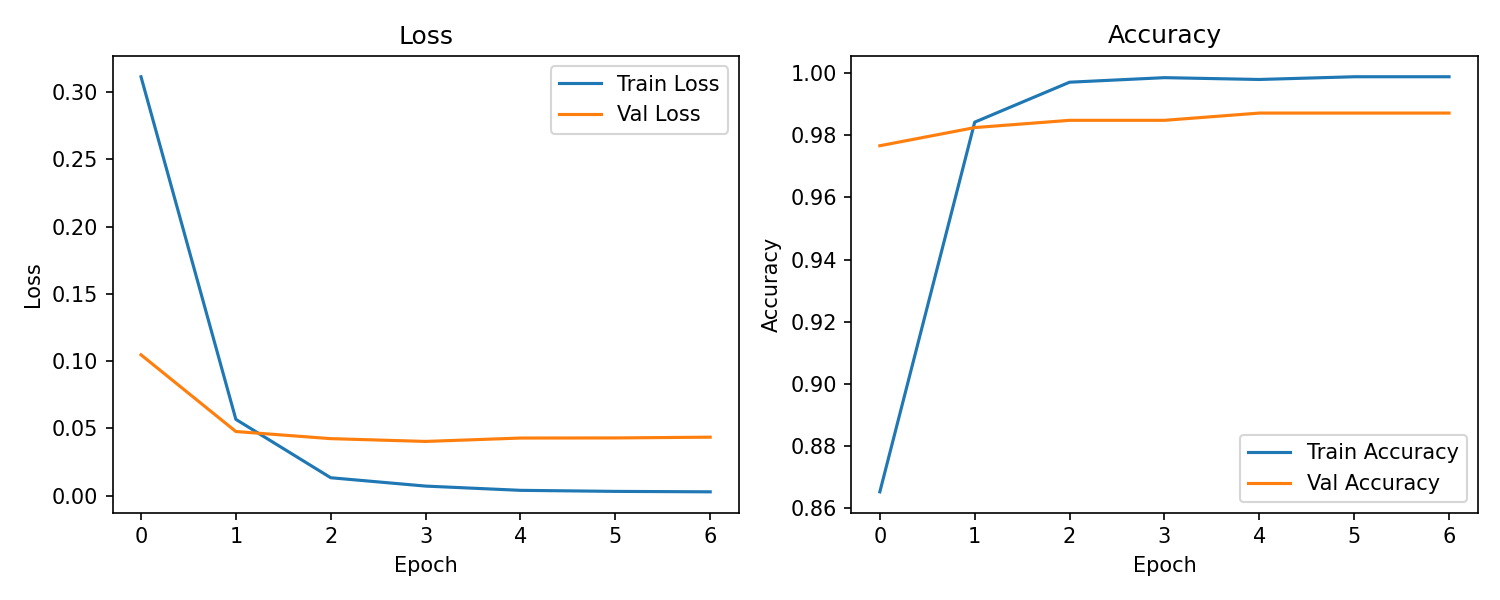
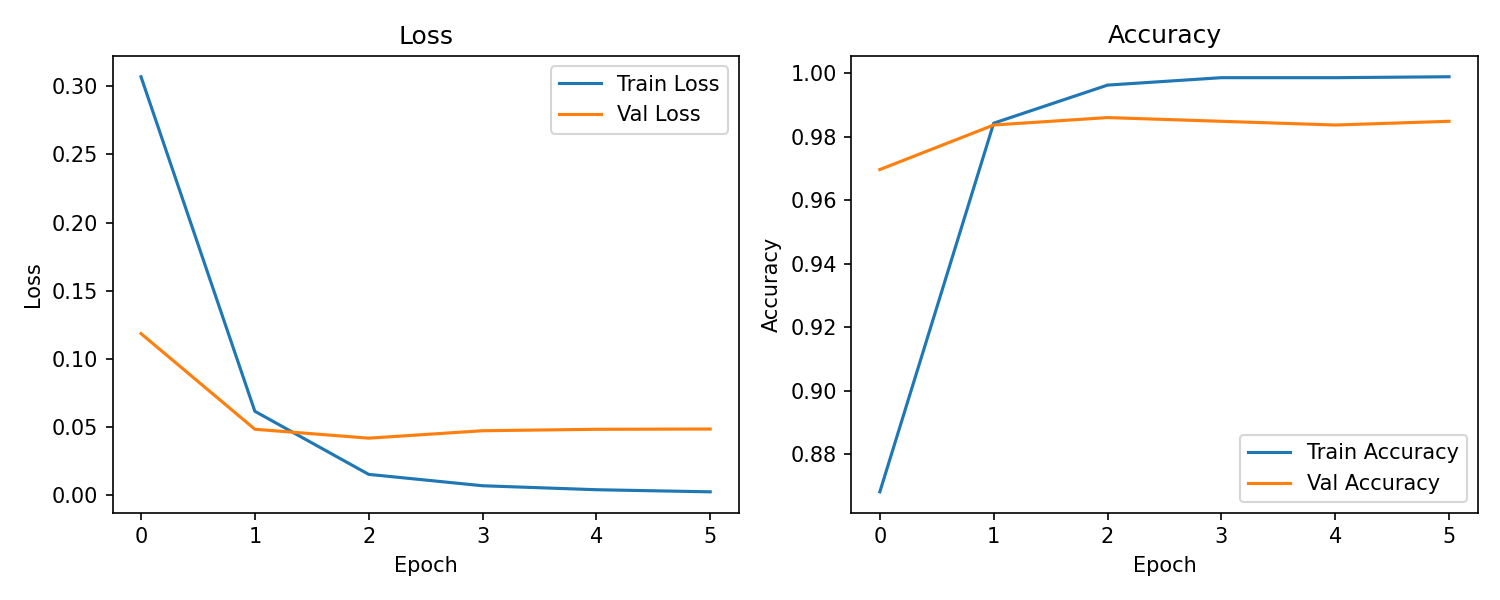
Train model with Logistic Regression

diff --git a/model/train_lr.py b/model/train_lr.py
@@ -1,0 +1,208 @@
+"""
+Train Logistic Regression model cho phân loại email Spam/Normal.
+
+Pipeline:
+  1. Load dataset merged (spam_clean_merged.csv)
+  2. TF-IDF Vectorization
+  3. Train Logistic Regression
+  4. Đánh giá trên test set
+  5. Lưu model + vectorizer
+  6. Lưu biểu đồ
+
+Sử dụng:
+  python -m model.train_lr
+"""
+
+import numpy as np
+import pandas as pd
+import pickle
+import os
+import matplotlib
+matplotlib.use('Agg')
+import matplotlib.pyplot as plt
+
+from sklearn.model_selection import train_test_split
+from sklearn.feature_extraction.text import TfidfVectorizer
+from sklearn.linear_model import LogisticRegression
+from sklearn.metrics import (
+    classification_report, confusion_matrix,
+    roc_auc_score, accuracy_score
+)
+
+from utils.logger import setup_logger
+
+logger = setup_logger(log_file="logs/train_lr.log")
+
+# Paths
+DATA_PATH = "data/spam_clean_merged.csv"
+MODEL_PATH = "model/lr_model.pkl"
+VECTORIZER_PATH = "model/tfidf_vectorizer.pkl"
+
+
+def train():
+    """Train Logistic Regression model."""
+
+    # =====================
+    # 1. Load dataset
+    # =====================
+    logger.info("=" * 60)
+    logger.info("LOGISTIC REGRESSION — TRAINING")
+    logger.info("=" * 60)
+
+    logger.info(f"Loading dataset from {DATA_PATH}...")
+    df = pd.read_csv(DATA_PATH)
+
+    # Đảm bảo có cột clean_text
+    if 'clean_text' not in df.columns:
+        logger.error("Dataset thiếu cột 'clean_text'! Hãy chạy prepare.py trước.")
+        return
+
+    # Loại bỏ NaN
+    df = df.dropna(subset=['clean_text', 'label'])
+    df['clean_text'] = df['clean_text'].astype(str)
+
+    texts = df['clean_text']
+    labels = df['label'].astype(int)
+
+    logger.info(f"Dataset size: {len(df)}")
+    logger.info(f"Label distribution:\n{labels.value_counts().to_string()}")
+
+    # =====================
+    # 2. TF-IDF Vectorization
+    # =====================
+    logger.info("Applying TF-IDF Vectorization (max_features=10000)...")
+
+    vectorizer = TfidfVectorizer(
+        max_features=10000,
+        ngram_range=(1, 2),     # Unigram + Bigram
+        min_df=2,               # Bỏ từ xuất hiện < 2 lần
+        max_df=0.95,            # Bỏ từ xuất hiện > 95% documents
+        sublinear_tf=True,      # Logarithmic TF scaling
+    )
+
+    X = vectorizer.fit_transform(texts)
+    y = np.array(labels)
+
+    logger.info(f"TF-IDF matrix shape: {X.shape}")
+
+    # =====================
+    # 3. Train/Test Split
+    # =====================
+    X_train, X_test, y_train, y_test = train_test_split(
+        X, y, test_size=0.2, random_state=42, stratify=y
+    )
+
+    logger.info(f"Train size: {X_train.shape[0]}, Test size: {X_test.shape[0]}")
+
+    # =====================
+    # 4. Train Logistic Regression
+    # =====================
+    logger.info("Training Logistic Regression...")
+
+    model = LogisticRegression(
+        max_iter=1000,
+        C=1.0,                  # Regularization strength
+        solver='lbfgs',         # Tốt cho dataset vừa
+        class_weight='balanced', # Cân bằng class tự động
+        random_state=42,
+        verbose=1,
+    )
+
+    model.fit(X_train, y_train)
+    logger.info("Training completed!")
+
+    # =====================
+    # 5. Evaluation
+    # =====================
+    y_pred = model.predict(X_test)
+    y_prob = model.predict_proba(X_test)[:, 1]
+
+    accuracy = accuracy_score(y_test, y_pred)
+    roc_auc = roc_auc_score(y_test, y_prob)
+
+    logger.info("\n" + "=" * 40)
+    logger.info("CLASSIFICATION REPORT")
+    logger.info("=" * 40)
+    report = classification_report(y_test, y_pred, target_names=['Normal', 'Spam'])
+    logger.info("\n" + report)
+
+    logger.info(f"Accuracy: {accuracy:.4f}")
+    logger.info(f"ROC-AUC:  {roc_auc:.4f}")
+
+    logger.info("\nCONFUSION MATRIX:")
+    cm = confusion_matrix(y_test, y_pred)
+    logger.info(f"\n{cm}")
+
+    # =====================
+    # 6. Save model & vectorizer
+    # =====================
+    with open(MODEL_PATH, "wb") as f:
+        pickle.dump(model, f)
+    logger.info(f"Model saved to {MODEL_PATH}")
+
+    with open(VECTORIZER_PATH, "wb") as f:
+        pickle.dump(vectorizer, f)
+    logger.info(f"Vectorizer saved to {VECTORIZER_PATH}")
+
+    # =====================
+    # 7. Save charts
+    # =====================
+    os.makedirs("logs/charts", exist_ok=True)
+
+    fig, axes = plt.subplots(1, 2, figsize=(12, 5))
+
+    # Confusion matrix heatmap
+    ax1 = axes[0]
+    im = ax1.imshow(cm, interpolation='nearest', cmap=plt.cm.Blues)
+    ax1.set_title("Confusion Matrix — Logistic Regression", fontsize=12)
+    ax1.set_xlabel("Predicted")
+    ax1.set_ylabel("Actual")
+    ax1.set_xticks([0, 1])
+    ax1.set_yticks([0, 1])
+    ax1.set_xticklabels(['Normal', 'Spam'])
+    ax1.set_yticklabels(['Normal', 'Spam'])
+    # Annotate cells
+    for i in range(2):
+        for j in range(2):
+            ax1.text(j, i, str(cm[i, j]),
+                     ha="center", va="center",
+                     color="white" if cm[i, j] > cm.max() / 2 else "black",
+                     fontsize=14)
+    fig.colorbar(im, ax=ax1)
+
+    # Top 20 important features
+    ax2 = axes[1]
+    feature_names = vectorizer.get_feature_names_out()
+    coef = model.coef_[0]
+    top_positive = np.argsort(coef)[-10:]  # Top spam indicators
+    top_negative = np.argsort(coef)[:10]    # Top normal indicators
+    top_indices = np.concatenate([top_negative, top_positive])
+    top_features = [feature_names[i] for i in top_indices]
+    top_coefs = [coef[i] for i in top_indices]
+
+    colors = ['#22c55e' if c < 0 else '#ef4444' for c in top_coefs]
+    ax2.barh(range(len(top_features)), top_coefs, color=colors)
+    ax2.set_yticks(range(len(top_features)))
+    ax2.set_yticklabels(top_features, fontsize=8)
+    ax2.set_title("Top 20 Important Features (Green=Normal, Red=Spam)", fontsize=11)
+    ax2.set_xlabel("Coefficient Weight")
+
+    plt.tight_layout()
+    chart_path = "logs/charts/lr_training.png"
+    plt.savefig(chart_path, dpi=150)
+    plt.close()
+    logger.info(f"Charts saved to {chart_path}")
+
+    logger.info("\n" + "=" * 60)
+    logger.info("LOGISTIC REGRESSION TRAINING COMPLETE!")
+    logger.info("=" * 60)
+
+    return {
+        "accuracy": accuracy,
+        "roc_auc": roc_auc,
+        "report": report,
+    }
+
+
+if __name__ == "__main__":
+    train()

diff --git a/main.py b/main.py
@@ -4,7 +4,7 @@ import os
 # Chạy GUI từ thư mục gốc
 sys.path.insert(0, os.path.dirname(os.path.abspath(__file__)))
 
-from GUI.app import main
-
+# from GUI.app import main
+from test import run_test
 if __name__ == "__main__":
-    main()
+    run_test()